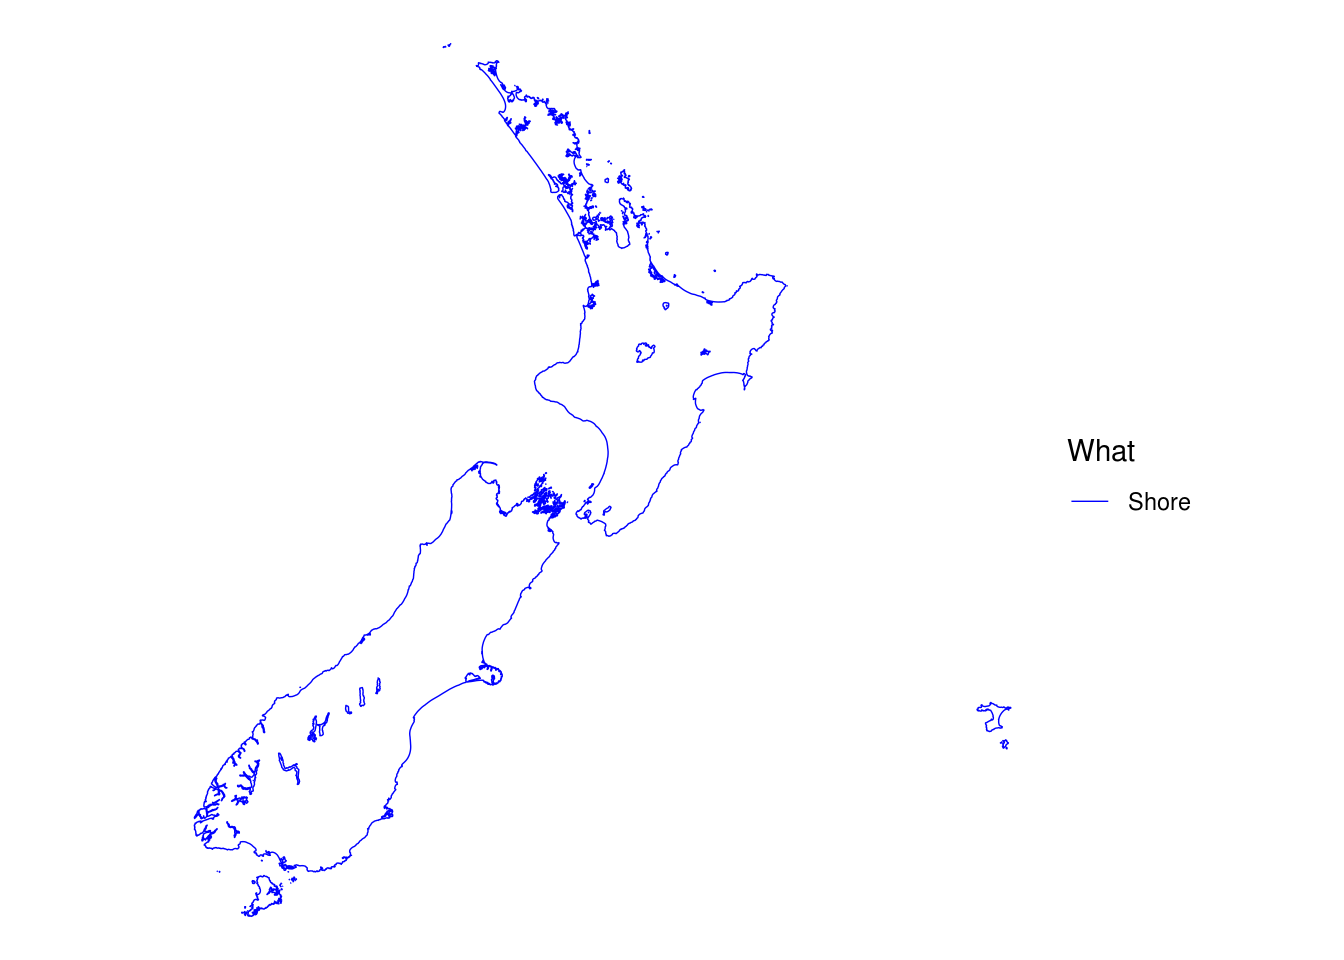
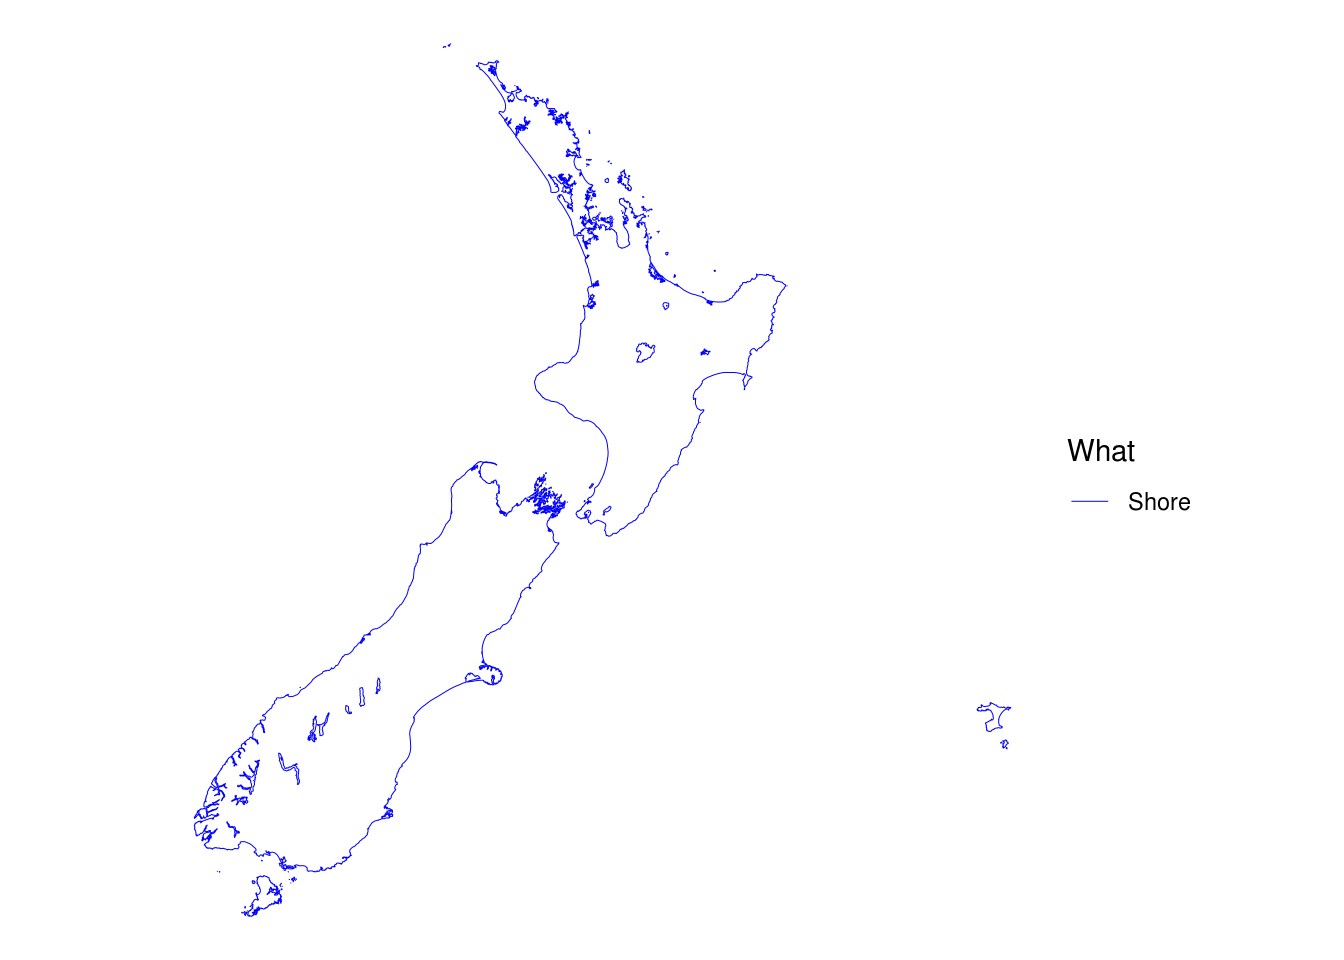
linewidth vs lwd

diff --git a/docs/maps/02-lines.html b/docs/maps/02-lines.html
@@ -180,8 +180,11 @@ pre > code.sourceCode > span > a:first-child::before { text-decoration: underlin
   <ul>
   <li><a href="#libraries" id="toc-libraries" class="nav-link active" data-scroll-target="#libraries">Libraries</a></li>
   <li><a href="#data-wrangling" id="toc-data-wrangling" class="nav-link" data-scroll-target="#data-wrangling">Data wrangling</a></li>
+  <li><a href="#the-maps" id="toc-the-maps" class="nav-link" data-scroll-target="#the-maps">The maps</a>
+  <ul class="collapse">
   <li><a href="#tmap" id="toc-tmap" class="nav-link" data-scroll-target="#tmap"><code>tmap</code></a></li>
   <li><a href="#ggplot2" id="toc-ggplot2" class="nav-link" data-scroll-target="#ggplot2"><code>ggplot2</code></a></li>
+  </ul></li>
   </ul>
 </nav>
     </div>
@@ -206,6 +209,7 @@ pre > code.sourceCode > span > a:first-child::before { text-decoration: underlin
 </header>
 
 <p>A map with lines.</p>
+<p>Warning: rabbitholes ahead.</p>
 <section id="libraries" class="level2">
 <h2 class="anchored" data-anchor-id="libraries">Libraries</h2>
 <div class="cell" data-hash="02-lines_cache/html/unnamed-chunk-1_5dd546503eeed5dff12e98e45c9e9abc">
@@ -230,33 +234,42 @@ pre > code.sourceCode > span > a:first-child::before { text-decoration: underlin
 </details>
 </div>
 </section>
-<section id="tmap" class="level2">
-<h2 class="anchored" data-anchor-id="tmap"><code>tmap</code></h2>
-<p>It seems like if you don’t ‘need’ a legend, i.e.&nbsp;if there is only one symbolisation in your map, then <code>tmap</code> won’t generate one, and you have to ‘force it’ with the <code>tm_add_legend</code> function.</p>
-<div class="cell" data-hash="02-lines_cache/html/unnamed-chunk-3_4d4e838814c225f5d7e4a1c95f5e5059">
-<div class="sourceCode cell-code" id="cb3"><pre class="sourceCode r code-with-copy"><code class="sourceCode r"><span id="cb3-1"><a href="#cb3-1" aria-hidden="true" tabindex="-1"></a><span class="fu">tm_shape</span>(nz, <span class="at">bbox =</span> nz <span class="sc">%&gt;%</span> <span class="fu">st_union</span>() <span class="sc">%&gt;%</span> <span class="fu">st_buffer</span>(<span class="dv">500</span>)) <span class="sc">+</span> </span>
+<section id="the-maps" class="level2">
+<h2 class="anchored" data-anchor-id="the-maps">The maps</h2>
+<p>But first… a rabbithole.</p>
+<p>Something this map got me looking at a bit more closely than ever before was exactly what is going on with the <code>linewidth</code> setting in <code>ggplot2</code>, which, like a lot of things you’ve learned by osmosis, rather than systematically, doesn’t seem that important until it does.</p>
+<p>The obvious fact is that <code>lwd = 0.5</code> in <code>tmap</code> and <code>linewidth = 0.5</code> in <code>ggplot2</code> do not yield the same result. Turns out… it’s complicated. <code>tmap</code> uses 0.75 <a href="https://en.wikipedia.org/wiki/Point_(typography)">points</a>, and <code>ggplot2</code> uses ~0.75 <a href="https://en.wikipedia.org/wiki/Millimetre">millimetres</a>.</p>
+<p>Wait, wut? 0.75 pts and <em>approximately</em> 0.75 mm?! Yes, you read that correctly.</p>
+<p>To be fair to <code>tmap</code>, it’s using the <em>R</em> graphics standard, which is that <code>lwd</code> is specified in pixels, which is notionally 1/96 inch, as <a href="https://www.w3schools.com/cssref/css_units.php">laid down by CSS</a>. This is ‘device dependent’ and when it comes to getting plots out of <em>R</em> and into image file formats can lead to all kinds of headaches, but that’s another story. A point is 1/72 inch, so <code>lwd = 1</code> gives you nominal line widths of 0.75 points in <code>tmap</code>.</p>
+<p>Meanwhile, according to <a href="https://ggplot2.tidyverse.org/articles/ggplot2-specs.html?q=linewidth#linewidth">the <code>ggplot2</code> documentation</a> (RTFM, eh?)</p>
+<blockquote class="blockquote">
+<p>Due to a historical error, the unit of linewidth is roughly 0.75 mm. Making it exactly 1 mm would change a very large number of existing plots, so we’re stuck with this mistake.</p>
+</blockquote>
+<p>They say nothing more on the matter. Presumably, it’s something to do with that 1/72 <em>vs</em> 1/96 thing just noted, and perhaps the <code>approximately</code> is due to TeX’s use of a point being 1/72.27 inches, <a href="https://tex.stackexchange.com/questions/200934/why-does-a-tex-point-differ-from-a-desktop-publishing-point">which is apparently more historically accurate</a>, and was the approximation settled upon, <em>because it is palindromic</em>! Anyway, the magic number 72.27 is buried in the <code>ggplot2</code> code, where the <a href="https://github.com/tidyverse/ggplot2/blob/b05c6c1f61a52311809ffda775eb258b07518dab/R/geom-.r#L163">conversion factor 72.27 / 25.4 is baked in</a>. I was led to this information by <a href="https://stackoverflow.com/questions/47519624/how-is-the-line-width-size-defined-in-ggplot2">this stackoverflow post</a>.</p>
+<p>The upshot of all this? To get the same line widths in <code>ggplot2</code> as in <code>tmap</code> multiply by 25.4 / 72.27. Simple really!</p>
+<section id="tmap" class="level3">
+<h3 class="anchored" data-anchor-id="tmap"><code>tmap</code></h3>
+<div class="cell" data-hash="02-lines_cache/html/unnamed-chunk-3_f4ae549f7784aa5038fd5b943622a390">
+<div class="sourceCode cell-code" id="cb3"><pre class="sourceCode r code-with-copy"><code class="sourceCode r"><span id="cb3-1"><a href="#cb3-1" aria-hidden="true" tabindex="-1"></a><span class="fu">tm_shape</span>(nz) <span class="sc">+</span> </span>
 <span id="cb3-2"><a href="#cb3-2" aria-hidden="true" tabindex="-1"></a>  <span class="fu">tm_lines</span>(</span>
-<span id="cb3-3"><a href="#cb3-3" aria-hidden="true" tabindex="-1"></a>    <span class="at">col =</span> <span class="st">"blue"</span>,</span>
-<span id="cb3-4"><a href="#cb3-4" aria-hidden="true" tabindex="-1"></a>    <span class="at">lwd =</span> <span class="fl">0.5</span>) <span class="sc">+</span> </span>
-<span id="cb3-5"><a href="#cb3-5" aria-hidden="true" tabindex="-1"></a>  <span class="fu">tm_add_legend</span>(</span>
-<span id="cb3-6"><a href="#cb3-6" aria-hidden="true" tabindex="-1"></a>    <span class="at">type =</span> <span class="st">"lines"</span>,</span>
-<span id="cb3-7"><a href="#cb3-7" aria-hidden="true" tabindex="-1"></a>    <span class="at">col =</span> <span class="fu">c</span>(<span class="st">"blue"</span>),</span>
-<span id="cb3-8"><a href="#cb3-8" aria-hidden="true" tabindex="-1"></a>    <span class="at">labels =</span> <span class="fu">c</span>(<span class="st">"Shore"</span>),</span>
-<span id="cb3-9"><a href="#cb3-9" aria-hidden="true" tabindex="-1"></a>    <span class="at">title =</span> <span class="st">"What"</span>) <span class="sc">+</span></span>
-<span id="cb3-10"><a href="#cb3-10" aria-hidden="true" tabindex="-1"></a>  <span class="fu">tm_layout</span>(</span>
-<span id="cb3-11"><a href="#cb3-11" aria-hidden="true" tabindex="-1"></a>    <span class="at">frame =</span> <span class="cn">FALSE</span>,</span>
-<span id="cb3-12"><a href="#cb3-12" aria-hidden="true" tabindex="-1"></a>    <span class="at">legend.frame =</span> <span class="cn">FALSE</span>,</span>
-<span id="cb3-13"><a href="#cb3-13" aria-hidden="true" tabindex="-1"></a>    <span class="at">legend.outside =</span> <span class="cn">TRUE</span>)</span></code><button title="Copy to Clipboard" class="code-copy-button"><i class="bi"></i></button></pre></div>
+<span id="cb3-3"><a href="#cb3-3" aria-hidden="true" tabindex="-1"></a>    <span class="at">col =</span> <span class="st">"What"</span>,</span>
+<span id="cb3-4"><a href="#cb3-4" aria-hidden="true" tabindex="-1"></a>    <span class="at">col.scale =</span> <span class="fu">tm_scale_categorical</span>(</span>
+<span id="cb3-5"><a href="#cb3-5" aria-hidden="true" tabindex="-1"></a>      <span class="at">values =</span> <span class="fu">c</span>(<span class="st">"blue"</span>)),</span>
+<span id="cb3-6"><a href="#cb3-6" aria-hidden="true" tabindex="-1"></a>    <span class="at">lwd =</span> <span class="fl">0.5</span>) <span class="sc">+</span> </span>
+<span id="cb3-7"><a href="#cb3-7" aria-hidden="true" tabindex="-1"></a>  <span class="fu">tm_layout</span>(</span>
+<span id="cb3-8"><a href="#cb3-8" aria-hidden="true" tabindex="-1"></a>    <span class="at">frame =</span> <span class="cn">FALSE</span>,</span>
+<span id="cb3-9"><a href="#cb3-9" aria-hidden="true" tabindex="-1"></a>    <span class="at">legend.frame =</span> <span class="cn">FALSE</span>,</span>
+<span id="cb3-10"><a href="#cb3-10" aria-hidden="true" tabindex="-1"></a>    <span class="at">legend.outside =</span> <span class="cn">TRUE</span>)</span></code><button title="Copy to Clipboard" class="code-copy-button"><i class="bi"></i></button></pre></div>
 <div class="cell-output-display">
 <p><img src="02-lines_files/figure-html/unnamed-chunk-3-1.png" class="img-fluid" width="672"></p>
 </div>
 </div>
 </section>
-<section id="ggplot2" class="level2">
-<h2 class="anchored" data-anchor-id="ggplot2"><code>ggplot2</code></h2>
-<div class="cell" data-hash="02-lines_cache/html/unnamed-chunk-4_ce086386f996f1e6e2cb790624d2937b">
+<section id="ggplot2" class="level3">
+<h3 class="anchored" data-anchor-id="ggplot2"><code>ggplot2</code></h3>
+<div class="cell" data-hash="02-lines_cache/html/unnamed-chunk-4_ef2cb3ee95b8c952885e334a48c9d6bf">
 <div class="sourceCode cell-code" id="cb4"><pre class="sourceCode r code-with-copy"><code class="sourceCode r"><span id="cb4-1"><a href="#cb4-1" aria-hidden="true" tabindex="-1"></a><span class="fu">ggplot</span>(nz) <span class="sc">+</span></span>
-<span id="cb4-2"><a href="#cb4-2" aria-hidden="true" tabindex="-1"></a>  <span class="fu">geom_sf</span>(<span class="fu">aes</span>(<span class="at">colour =</span> What), <span class="at">linewidth =</span> <span class="fl">0.25</span>) <span class="sc">+</span></span>
+<span id="cb4-2"><a href="#cb4-2" aria-hidden="true" tabindex="-1"></a>  <span class="fu">geom_sf</span>(<span class="fu">aes</span>(<span class="at">colour =</span> What), <span class="at">linewidth =</span> <span class="fl">0.5</span> <span class="sc">*</span> <span class="fl">25.4</span> <span class="sc">/</span> <span class="fl">72.27</span>) <span class="sc">+</span></span>
 <span id="cb4-3"><a href="#cb4-3" aria-hidden="true" tabindex="-1"></a>  <span class="fu">scale_colour_manual</span>(<span class="at">values =</span> <span class="fu">c</span>(<span class="st">"blue"</span>)) <span class="sc">+</span></span>
 <span id="cb4-4"><a href="#cb4-4" aria-hidden="true" tabindex="-1"></a>  <span class="fu">theme_void</span>()</span></code><button title="Copy to Clipboard" class="code-copy-button"><i class="bi"></i></button></pre></div>
 <div class="cell-output-display">
@@ -265,6 +278,7 @@ pre > code.sourceCode > span > a:first-child::before { text-decoration: underlin
 </div>
 
 
+</section>
 </section>
 
 </main> <!-- /main -->
